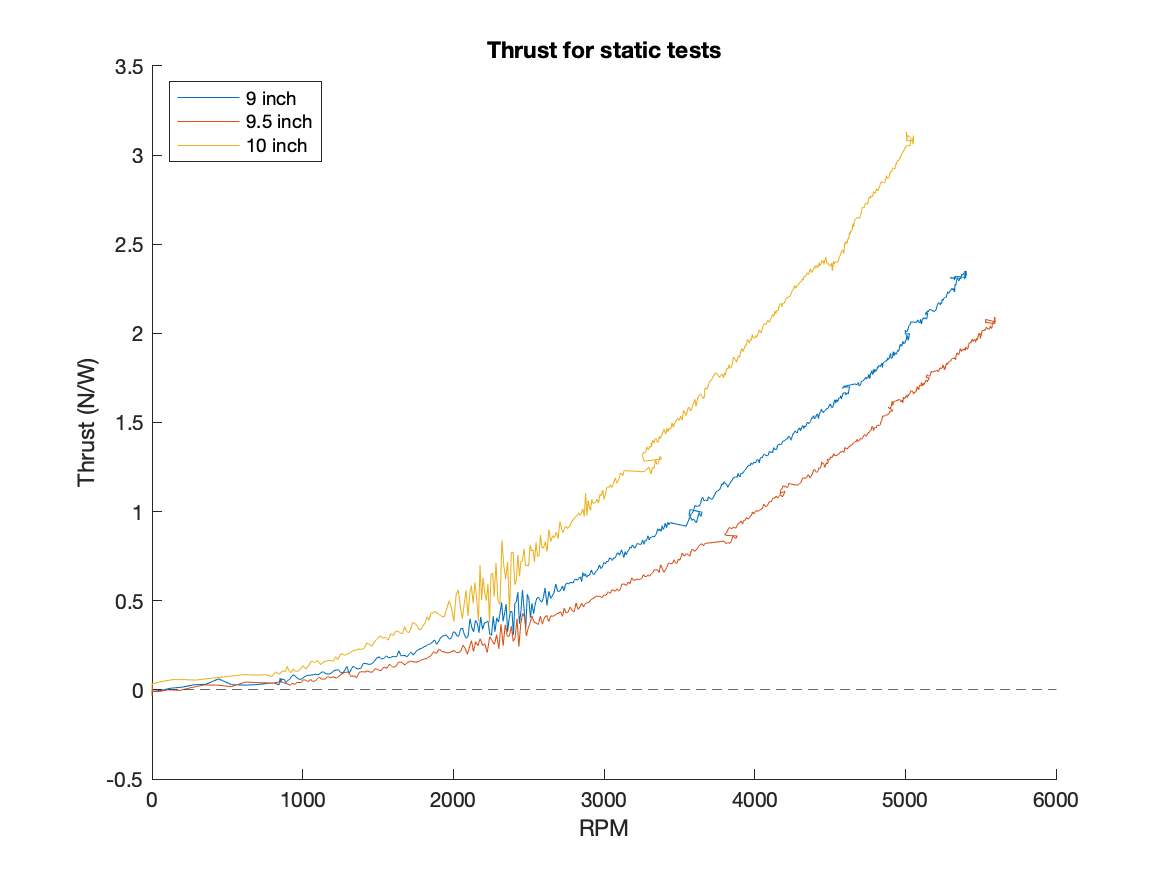
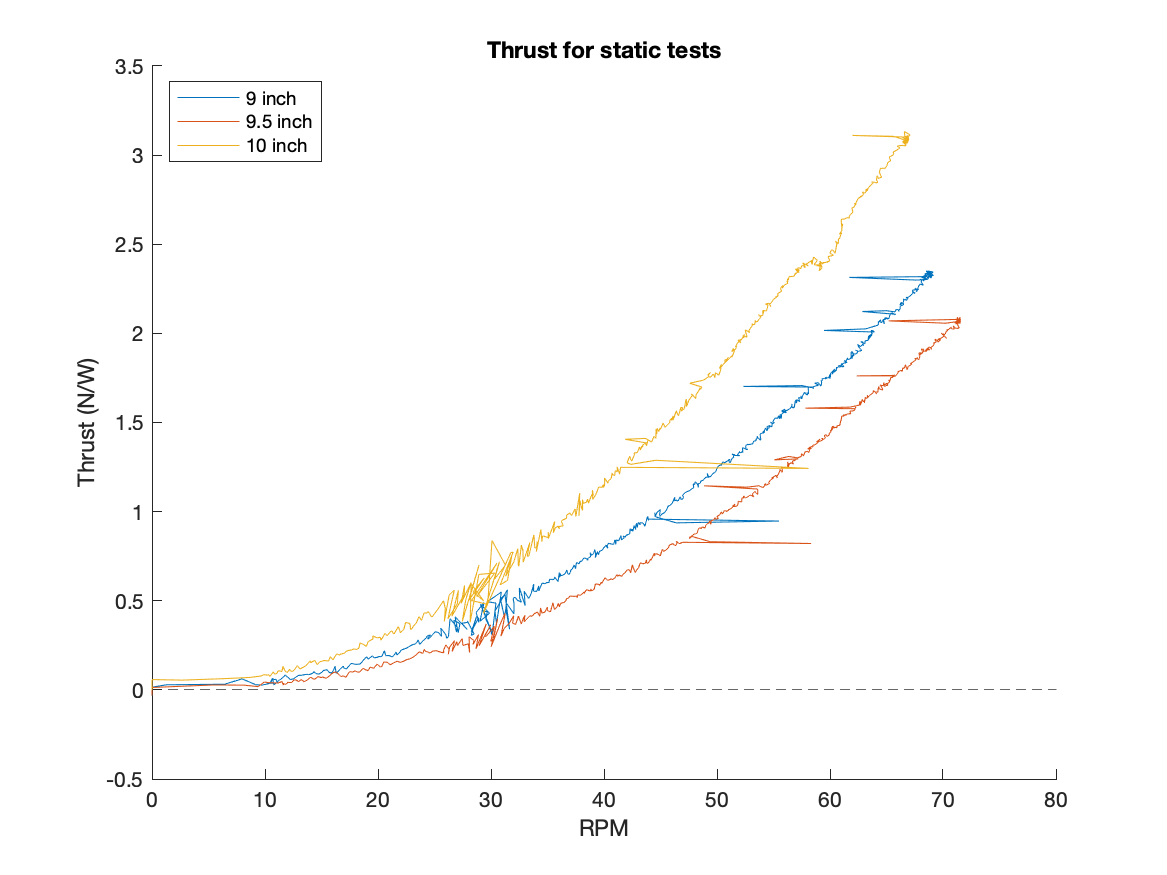
update phase 1 plots

diff --git a/phase1/analyze_all_static.m b/phase1/analyze_all_static.m
@@ -91,7 +91,7 @@ function analyze_all_static()
         plot(rpm_avg, effP_calc,'-');
     
         figure(combined_T)
-        plot(rpm_avg, T);
+        plot(Pm, T);
     end
     
     figure(combined_O)
@@ -108,17 +108,16 @@ function analyze_all_static()
     yline(0,'--');
     xlabel("RPM")
     ylabel("Efficiency (N/W)");
-    title("Propeller Efficiency for static tests");
     legend({"9 inch","9.5 inch", "10 inch"});
     saveas(combined_P, "Combined_Prop_eff.png");
     
     figure(combined_T)
     yline(0,'--');
-    xlabel("RPM")
-    ylabel("Thrust (N/W)");
-    title("Thrust for static tests");
+    xlabel("Electrical Power (W)")
+    ylabel("Thrust (N)");
+    title("Thrust vs Power for static tests");
     legend({"9 inch","9.5 inch", "10 inch"},'Location','northwest');
-    saveas(combined_T, "Combined_thrust_rpm.png");
+    saveas(combined_T, "Combined_thrust_pow.png");
 end
 
 
